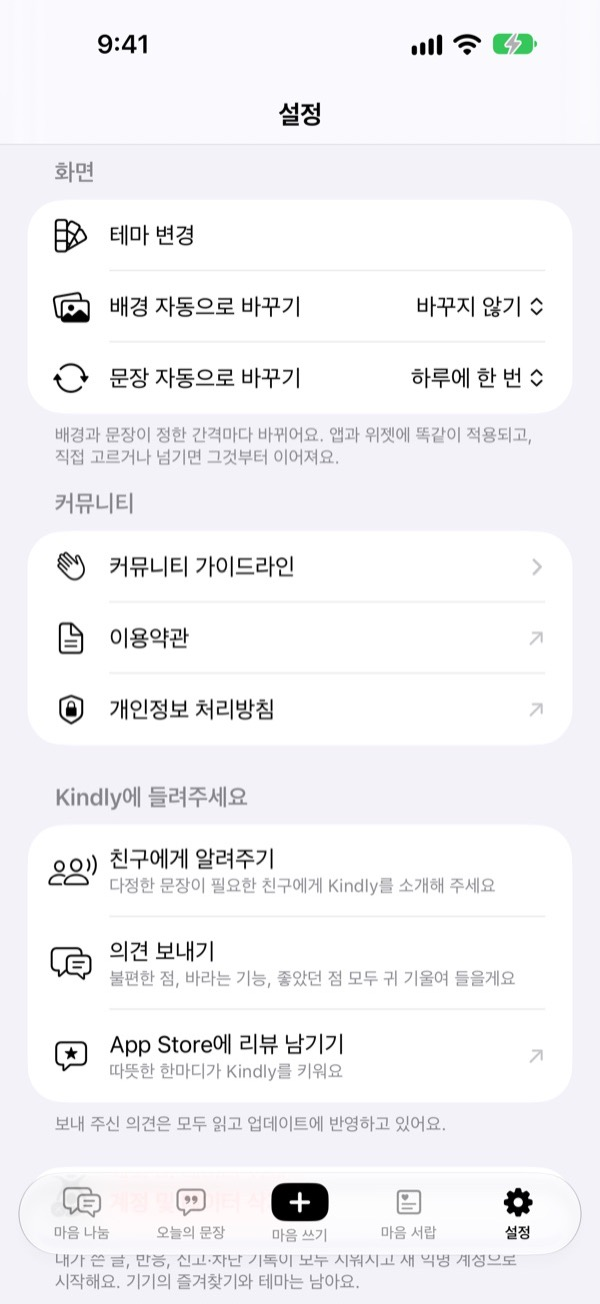
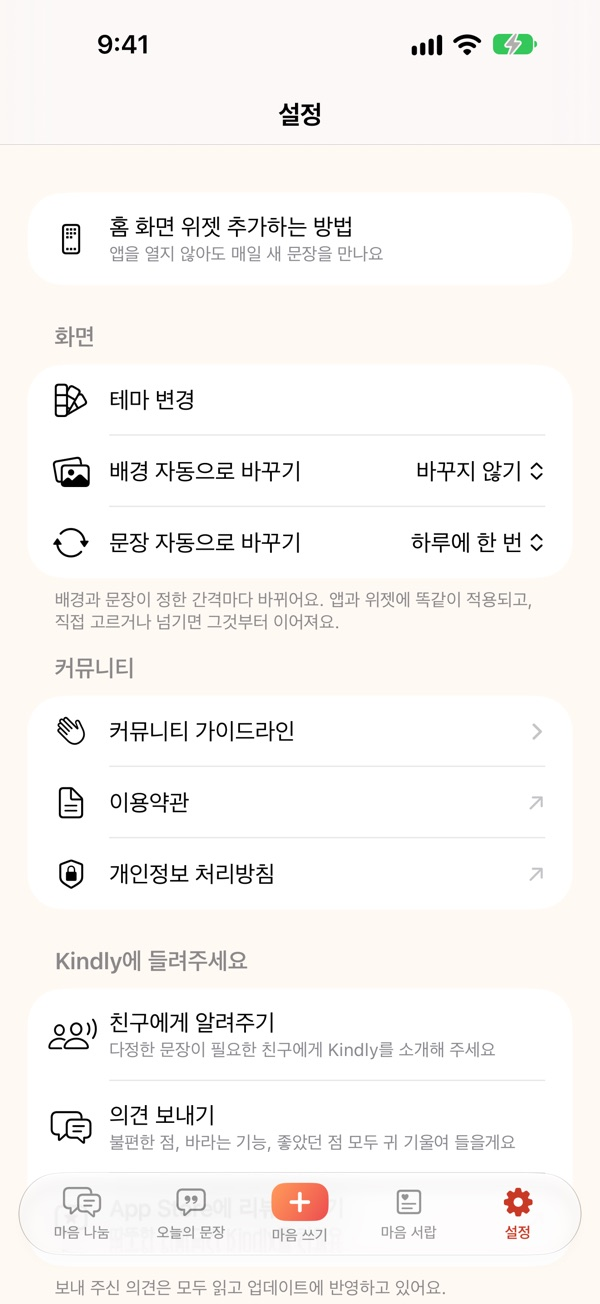
kindly: 새 앱 아이콘(크림 배경 따옴표+하트)과 같은 크림·산호 색으로 페이지 갱신, 아이콘·공유 이미지·미리보기 스크린샷 교체

diff --git a/kindly/en/index.html b/kindly/en/index.html
@@ -14,7 +14,7 @@ permalink: /kindly/en/
   <link rel="alternate" hreflang="en" href="https://cumulus.team/kindly/en/">
   <link rel="alternate" hreflang="x-default" href="https://cumulus.team/kindly/">
   <meta name="robots" content="index, follow, max-image-preview:large, max-snippet:-1">
-  <meta name="theme-color" content="#1C1530">
+  <meta name="theme-color" content="#FFF9F3">
   <link rel="icon" type="image/png" sizes="32x32" href="/kindly/img/favicon-32.png">
   <link rel="apple-touch-icon" href="/kindly/img/apple-touch-icon.png">
 
@@ -208,19 +208,20 @@ permalink: /kindly/en/
   <!-- appstore:head:end -->
 
   <style>
-    :root { --violet:#7B5BE6; --violet-ink:#5B3FC4; --peach:#FFB27A; --night:#1C1530; --dusk:#2E2350; --cream:#FBF6EE; --ink:#1d1b22; --sub:#5d5966; --bg:#fffdf9; --soft:#f5f1fb; --line:#e8e2f0; }
-    @media (prefers-color-scheme: dark) { :root { --violet-ink:#B39CFF; --ink:#f1edf7; --sub:#b1a9c0; --bg:#121018; --soft:#1d1926; --line:#2e2838; } }
+    /* 앱 아이콘(크림 + 주황→빨강 따옴표) 색 */
+    :root { --accent:#C93A26; --quote-a:#FF9A5A; --quote-b:#EC4A4F; --cream:#FFF9F3; --ink:#2B1E1B; --sub:#6E5A53; --bg:#FFFCF8; --soft:#FFF1E8; --line:#F1E2D8; --hero:radial-gradient(120% 90% at 0% 100%, #FFD3BC 0%, #FFEFE4 48%, #FFF9F3 100%); }
+    @media (prefers-color-scheme: dark) { :root { --accent:#FF8A6B; --ink:#F5EEE9; --sub:#BFAFA6; --bg:#14110F; --soft:#221C19; --line:#33291F; --hero:radial-gradient(120% 90% at 0% 100%, #5A2A1C 0%, #261A14 48%, #14110F 100%); } }
     * { box-sizing:border-box; }
     body { margin:0; font-family:-apple-system,BlinkMacSystemFont,"Apple SD Gothic Neo","Noto Sans KR","Malgun Gothic",sans-serif; color:var(--ink); background:var(--bg); line-height:1.65; word-break:keep-all; }
-    a { color:var(--violet-ink); }
+    a { color:var(--accent); }
     .wrap { max-width:960px; margin:0 auto; padding:0 20px; }
-    header.hero { background:radial-gradient(120% 90% at 0% 100%, #6b4a3a 0%, var(--dusk) 45%, var(--night) 100%); color:var(--cream); padding:56px 0 48px; }
-    .hero .tagline { margin:0 0 10px; font-size:clamp(16px,2.2vw,19px); font-weight:600; letter-spacing:.02em; color:var(--peach); }
-    .hero .as-tagline em { font-style:normal; color:var(--peach); }
-    .hero p.lead { font-size:clamp(17px,2.4vw,20px); margin:0 0 28px; color:#ddd3e6; max-width:640px; }
-    .cta { display:inline-block; background:var(--peach); color:#2a1606; font-weight:800; font-size:18px; padding:14px 26px; border-radius:999px; text-decoration:none; }
+    header.hero { background:var(--hero); color:var(--ink); padding:56px 0 48px; }
+    .hero .tagline { margin:0 0 10px; font-size:clamp(16px,2.2vw,19px); font-weight:600; letter-spacing:.02em; color:var(--accent); }
+    .hero .as-tagline em { font-style:normal; color:var(--accent); }
+    .hero p.lead { font-size:clamp(17px,2.4vw,20px); margin:0 0 28px; color:var(--sub); max-width:640px; }
+    .cta { display:inline-block; background:linear-gradient(135deg,var(--quote-a),var(--quote-b)); color:#fff; font-weight:800; font-size:18px; padding:14px 26px; border-radius:999px; text-decoration:none; }
     .cta:hover { filter:brightness(1.05); }
-    .meta { margin-top:14px; font-size:15px; color:#bcb0c9; }
+    .meta { margin-top:14px; font-size:15px; color:var(--sub); }
     section { padding:48px 0; border-bottom:1px solid var(--line); }
     h2 { font-size:clamp(24px,3.6vw,30px); margin:0 0 18px; line-height:1.35; }
     p, li { font-size:17px; }

diff --git a/kindly/index.html b/kindly/index.html
@@ -14,7 +14,7 @@ permalink: /kindly/
   <link rel="alternate" hreflang="en" href="https://cumulus.team/kindly/en/">
   <link rel="alternate" hreflang="x-default" href="https://cumulus.team/kindly/">
   <meta name="robots" content="index, follow, max-image-preview:large, max-snippet:-1">
-  <meta name="theme-color" content="#1C1530">
+  <meta name="theme-color" content="#FFF9F3">
   <link rel="icon" type="image/png" sizes="32x32" href="/kindly/img/favicon-32.png">
   <link rel="apple-touch-icon" href="/kindly/img/apple-touch-icon.png">
 
@@ -208,19 +208,20 @@ permalink: /kindly/
   <!-- appstore:head:end -->
 
   <style>
-    :root { --violet:#7B5BE6; --violet-ink:#5B3FC4; --peach:#FFB27A; --night:#1C1530; --dusk:#2E2350; --cream:#FBF6EE; --ink:#1d1b22; --sub:#5d5966; --bg:#fffdf9; --soft:#f5f1fb; --line:#e8e2f0; }
-    @media (prefers-color-scheme: dark) { :root { --violet-ink:#B39CFF; --ink:#f1edf7; --sub:#b1a9c0; --bg:#121018; --soft:#1d1926; --line:#2e2838; } }
+    /* 앱 아이콘(크림 + 주황→빨강 따옴표) 색 */
+    :root { --accent:#C93A26; --quote-a:#FF9A5A; --quote-b:#EC4A4F; --cream:#FFF9F3; --ink:#2B1E1B; --sub:#6E5A53; --bg:#FFFCF8; --soft:#FFF1E8; --line:#F1E2D8; --hero:radial-gradient(120% 90% at 0% 100%, #FFD3BC 0%, #FFEFE4 48%, #FFF9F3 100%); }
+    @media (prefers-color-scheme: dark) { :root { --accent:#FF8A6B; --ink:#F5EEE9; --sub:#BFAFA6; --bg:#14110F; --soft:#221C19; --line:#33291F; --hero:radial-gradient(120% 90% at 0% 100%, #5A2A1C 0%, #261A14 48%, #14110F 100%); } }
     * { box-sizing:border-box; }
     body { margin:0; font-family:-apple-system,BlinkMacSystemFont,"Apple SD Gothic Neo","Noto Sans KR","Malgun Gothic",sans-serif; color:var(--ink); background:var(--bg); line-height:1.65; word-break:keep-all; }
-    a { color:var(--violet-ink); }
+    a { color:var(--accent); }
     .wrap { max-width:960px; margin:0 auto; padding:0 20px; }
-    header.hero { background:radial-gradient(120% 90% at 0% 100%, #6b4a3a 0%, var(--dusk) 45%, var(--night) 100%); color:var(--cream); padding:56px 0 48px; }
-    .hero .tagline { margin:0 0 10px; font-size:clamp(16px,2.2vw,19px); font-weight:600; letter-spacing:.02em; color:var(--peach); }
-    .hero .as-tagline em { font-style:normal; color:var(--peach); }
-    .hero p.lead { font-size:clamp(17px,2.4vw,20px); margin:0 0 28px; color:#ddd3e6; max-width:640px; }
-    .cta { display:inline-block; background:var(--peach); color:#2a1606; font-weight:800; font-size:18px; padding:14px 26px; border-radius:999px; text-decoration:none; }
+    header.hero { background:var(--hero); color:var(--ink); padding:56px 0 48px; }
+    .hero .tagline { margin:0 0 10px; font-size:clamp(16px,2.2vw,19px); font-weight:600; letter-spacing:.02em; color:var(--accent); }
+    .hero .as-tagline em { font-style:normal; color:var(--accent); }
+    .hero p.lead { font-size:clamp(17px,2.4vw,20px); margin:0 0 28px; color:var(--sub); max-width:640px; }
+    .cta { display:inline-block; background:linear-gradient(135deg,var(--quote-a),var(--quote-b)); color:#fff; font-weight:800; font-size:18px; padding:14px 26px; border-radius:999px; text-decoration:none; }
     .cta:hover { filter:brightness(1.05); }
-    .meta { margin-top:14px; font-size:15px; color:#bcb0c9; }
+    .meta { margin-top:14px; font-size:15px; color:var(--sub); }
     section { padding:48px 0; border-bottom:1px solid var(--line); }
     h2 { font-size:clamp(24px,3.6vw,30px); margin:0 0 18px; line-height:1.35; }
     p, li { font-size:17px; }
